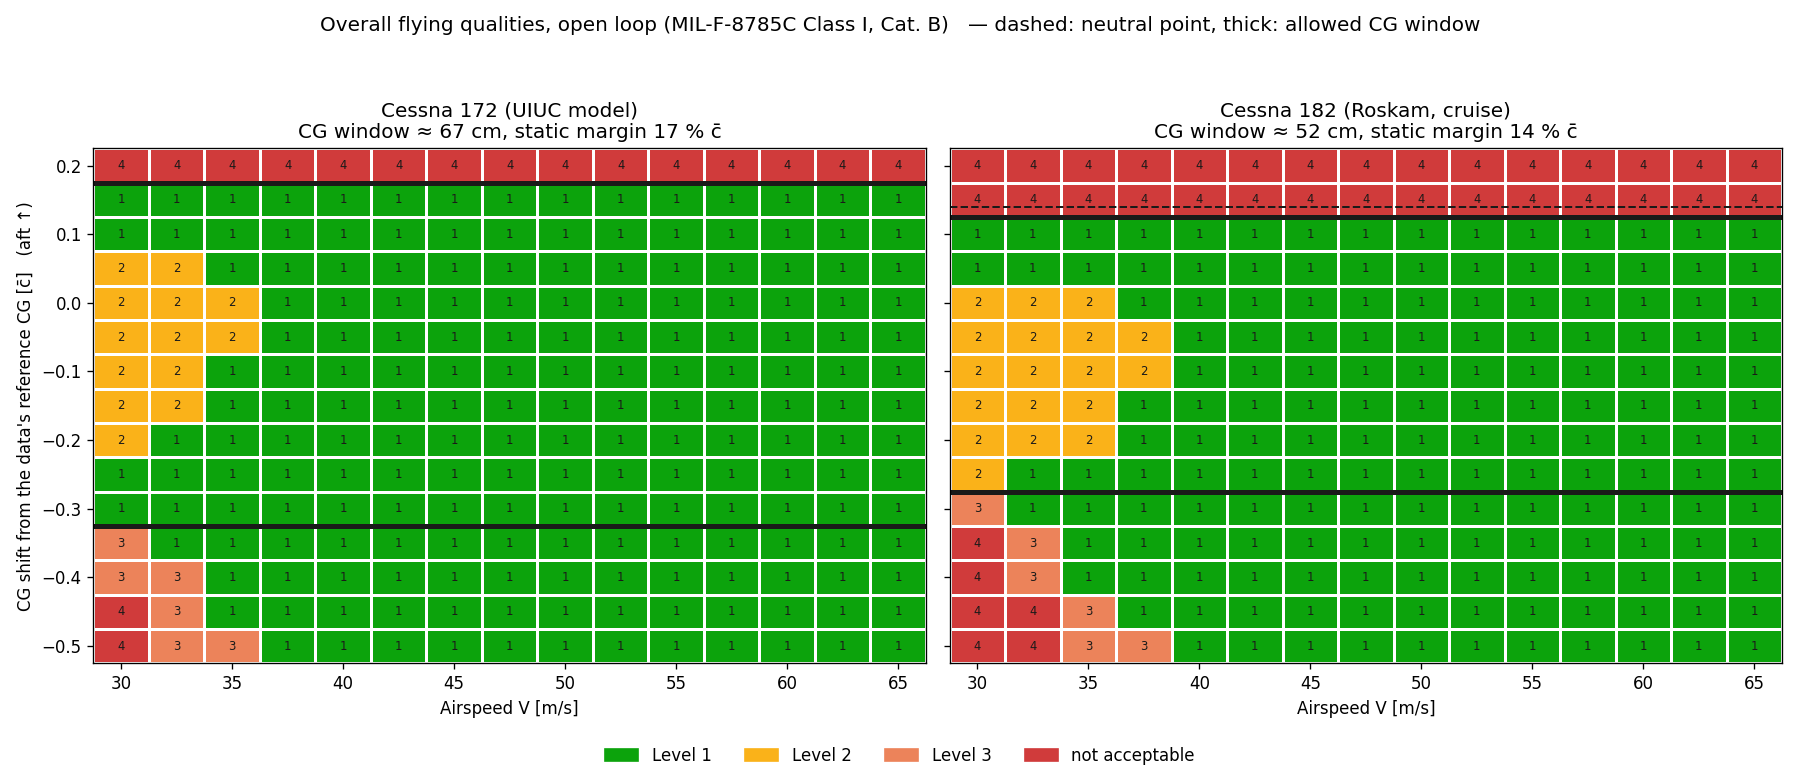
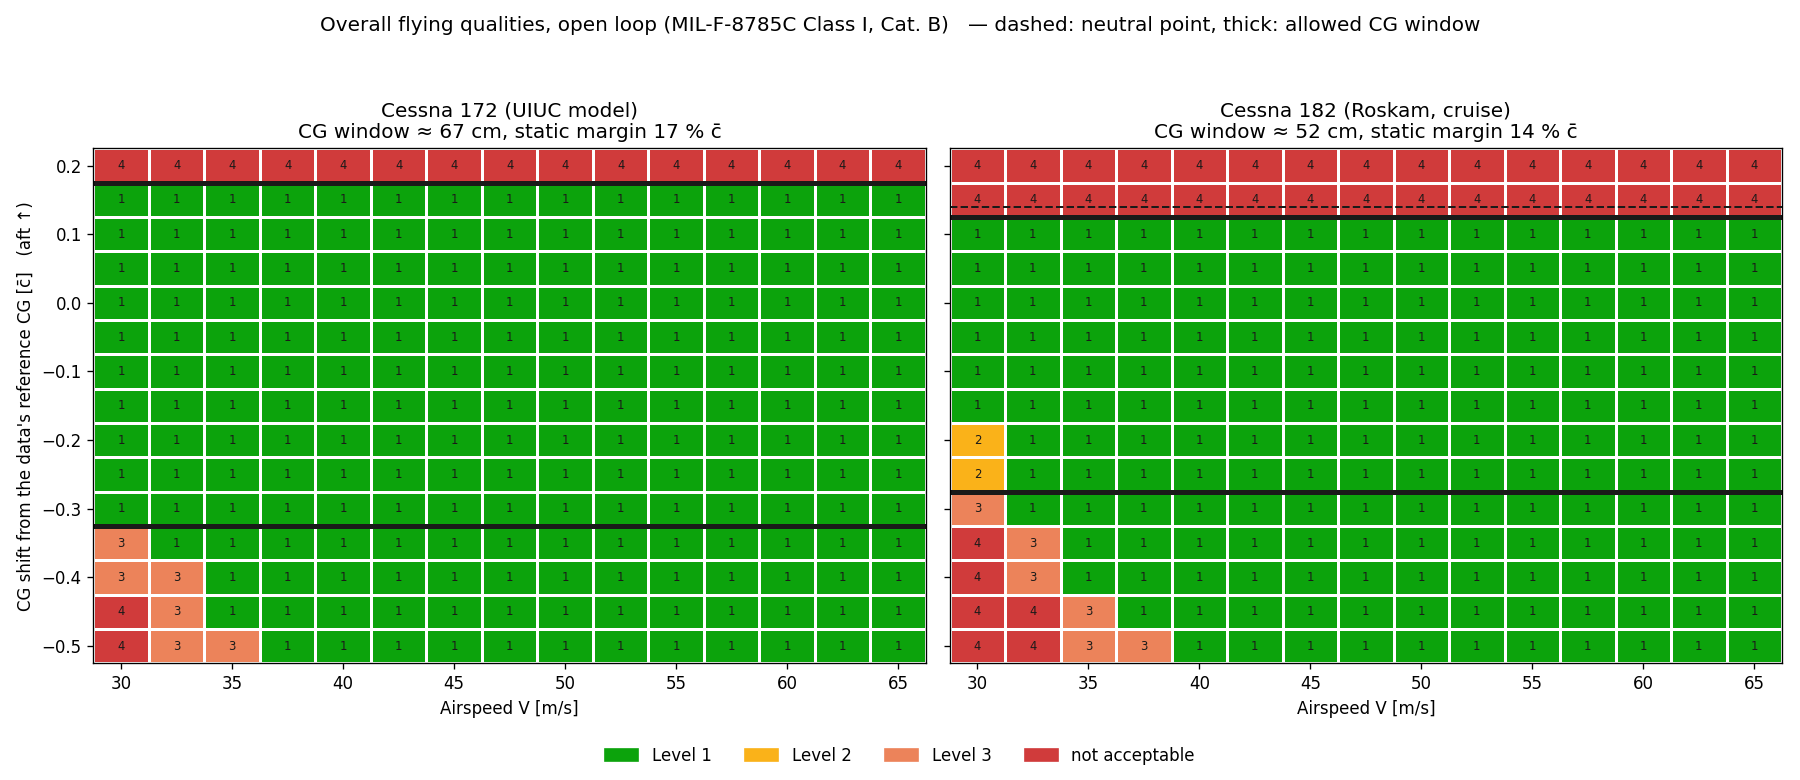
Add Cm_alpha_dot, handle overdamped short period

Changed region(s): [[0.0311, 0.3077, 0.1556, 0.5846], [0.5289, 0.3692, 0.6533, 0.5846]]

diff --git a/src/aircraft/flightdynamics_6dof.py b/src/aircraft/flightdynamics_6dof.py
@@ -7,8 +7,10 @@ Input  c = [delta_e, delta_a, delta_r, T]                      (4)
 Aerodynamics (stage 1 = same terms as the 3-DOF model, plus the full lateral set):
     CL = CL0 + CL_alpha*alpha                      (CL_delta_e, CL_q, CL_alpha_dot follow later)
     CD = CD0 + k*CL^2
-    Cm = Cm0 + Cm_alpha*alpha + Cm_delta_e*de + Cm_q*q_hat
+    Cm = Cm0 + Cm_alpha*alpha + Cm_delta_e*de + Cm_q*q_hat + Cm_alpha_dot*alpha_dot_hat
     CY, Cl, Cn = full lateral-directional model
+
+INCLUDE_ALPHA_DOT = True  -> Cm_alpha_dot term active (set False to reproduce the 3-DOF model)
 """
 import numpy as np
 from aircraft import p
@@ -16,6 +18,8 @@ from aircraft import p
 # State indices (makes the code readable)
 U, V_, W, P, Q, R, PHI, THETA, PSI, XN, YE, H = range(12)
 DE, DA, DR, TH = range(4)
+
+INCLUDE_ALPHA_DOT = True      # pitch damping from the rate of change of alpha (Cm_alpha_dot)
 
 
 def air_data(x, wind_ned=(0.0, 0.0, 0.0)):
@@ -41,8 +45,8 @@ def rotation_body_to_ned(phi, theta, psi):
     ])
 
 
-def aero_forces_moments(x, c, wind_ned=(0.0, 0.0, 0.0)):
-    """Aerodynamic forces (body axes) and moments [N, N·m]."""
+def aero_forces_moments(x, c, wind_ned=(0.0, 0.0, 0.0), alpha_dot=0.0):
+    """Aerodynamic forces (body axes) and moments [N, N·m]. alpha_dot in rad/s."""
     V, alpha, beta = air_data(x, wind_ned)
     p_, q_, r_ = x[P], x[Q], x[R]
     de, da, dr = c[DE], c[DA], c[DR]
@@ -50,12 +54,14 @@ def aero_forces_moments(x, c, wind_ned=(0.0, 0.0, 0.0)):
     q_bar = 0.5 * p.rho * V**2
     p_hat = p_ * p.b / (2 * V)                       # rates made dimensionless
     q_hat = q_ * p.c_bar / (2 * V)
+    alpha_dot_hat = alpha_dot * p.c_bar / (2 * V)    # made dimensionless like q
     r_hat = r_ * p.b / (2 * V)
 
     # Longitudinal coefficients (identical to the 3-DOF model)
     CL = p.CL0 + p.CL_alpha * alpha
     CD = p.CD0 + p.k * CL**2
-    Cm = p.Cm0 + p.Cm_alpha * alpha + p.Cm_delta_e * de + p.Cm_q * q_hat
+    Cm = (p.Cm0 + p.Cm_alpha * alpha + p.Cm_delta_e * de + p.Cm_q * q_hat
+          + p.Cm_alpha_dot * alpha_dot_hat)
 
     # Lateral-directional coefficients
     CY = p.CY_beta * beta + p.CY_delta_a * da + p.CY_delta_r * dr + p.CY_p * p_hat + p.CY_r * r_hat
@@ -82,7 +88,7 @@ def aero_forces_moments(x, c, wind_ned=(0.0, 0.0, 0.0)):
 def f(x, c, wind_ned=(0.0, 0.0, 0.0)):
     """x_dot = f(x, c): the four equation blocks."""
     u, v, w, p_, q_, r_, phi, theta, psi = x[:9]
-    (X, Y, Z), (L_roll, M, N) = aero_forces_moments(x, c, wind_ned)
+    (X, Y, Z), _ = aero_forces_moments(x, c, wind_ned)   # forces do not depend on alpha_dot
     X += c[TH]                                       # thrust along the body x-axis
 
     g, m = p.g, p.m
@@ -93,6 +99,12 @@ def f(x, c, wind_ned=(0.0, 0.0, 0.0)):
     u_dot = r_ * v - q_ * w + X / m - g * sth
     v_dot = p_ * w - r_ * u + Y / m + g * sph * cth
     w_dot = q_ * u - p_ * v + Z / m + g * cph * cth
+
+    # alpha_dot from the translational accelerations: alpha = atan(w/u)
+    #   -> alpha_dot = (u*w_dot - w*u_dot) / (u^2 + w^2)
+    # then the moments are evaluated with this alpha_dot (Cm_alpha_dot term)
+    alpha_dot = (u * w_dot - w * u_dot) / (u**2 + w**2) if INCLUDE_ALPHA_DOT else 0.0
+    _, (L_roll, M, N) = aero_forces_moments(x, c, wind_ned, alpha_dot)
 
     # Block 2: moments (p_dot and r_dot are coupled through I_xz -> 2x2 system)
     Ix, Iy, Iz, Ixz = p.I_x, p.I_y, p.I_z, p.I_xz

diff --git a/src/aircraft/modes.py b/src/aircraft/modes.py
@@ -32,6 +32,22 @@ def _mode_info(lam):
     return info
 
 
+def _overdamped_info(real_roots):
+    """
+    Short period that has split into two real roots (zeta > 1).
+    Stable: report the equivalent 2nd-order values  wn = sqrt(l1*l2), zeta = -(l1+l2)/(2*wn).
+    Unstable: report the divergent root.
+    """
+    critical = max(real_roots, key=lambda l: l.real)
+    if critical.real >= 0 or len(real_roots) < 2:
+        return _mode_info(critical)
+    l1, l2 = sorted(real_roots, key=lambda l: l.real)[-2:]    # the two slowest-decaying roots
+    wn = np.sqrt(l1.real * l2.real)
+    info = _mode_info(critical)
+    info.update({"wn": wn, "zeta": -(l1.real + l2.real) / (2 * wn), "overdamped": True})
+    return info
+
+
 def identify_modes(A, V):
     """
     Returns a dict  {mode name: info}  with the keys
@@ -62,7 +78,7 @@ def identify_modes(A, V):
     elif len(osc) == 1:                               # one pair turned into two real poles
         if abs(osc[0]) < 1.0:                         # the remaining pair is slow -> phugoid
             modes["phugoid"] = _mode_info(osc[0])
-            modes["short_period"] = _mode_info(max(real, key=lambda l: l.real))  # the critical one
+            modes["short_period"] = _overdamped_info(real)                        # two real roots
         else:
             modes["short_period"] = _mode_info(osc[0])
             modes["phugoid"] = _mode_info(max(real, key=lambda l: l.real))

diff --git a/src/aircraft/criteria.py b/src/aircraft/criteria.py
@@ -62,8 +62,11 @@ def _t_double(m):
 
 
 def level_short_period(m, cat):
-    if not _is_oscillatory(m):                    # aperiodic
-        return 4 if m["eigenvalue"].real > 0 else 3
+    if m["eigenvalue"].real > 0:                  # divergent (CG behind neutral point)
+        return 4
+    if not _is_oscillatory(m) and not m.get("overdamped"):
+        return 3                                  # aperiodic without equivalent zeta
+    # oscillatory, or overdamped with equivalent zeta (> 1) -> check the zeta band
     for lvl in (1, 2, 3):
         lo, hi = SHORT_PERIOD_ZETA[cat][lvl]
         if lo <= m["zeta"] <= hi:

diff --git a/src/aircraft/validate6dof.py b/src/aircraft/validate6dof.py
@@ -8,6 +8,7 @@ import os
 import numpy as np
 import matplotlib.pyplot as plt
 import flightdynamics_6dof as m6
+m6.INCLUDE_ALPHA_DOT = False     # the 3-DOF model has no Cm_alpha_dot -> compare like with like
 from flightdynamics import calculate_derivatives
 from trim import trim
 from linearize import linearize
